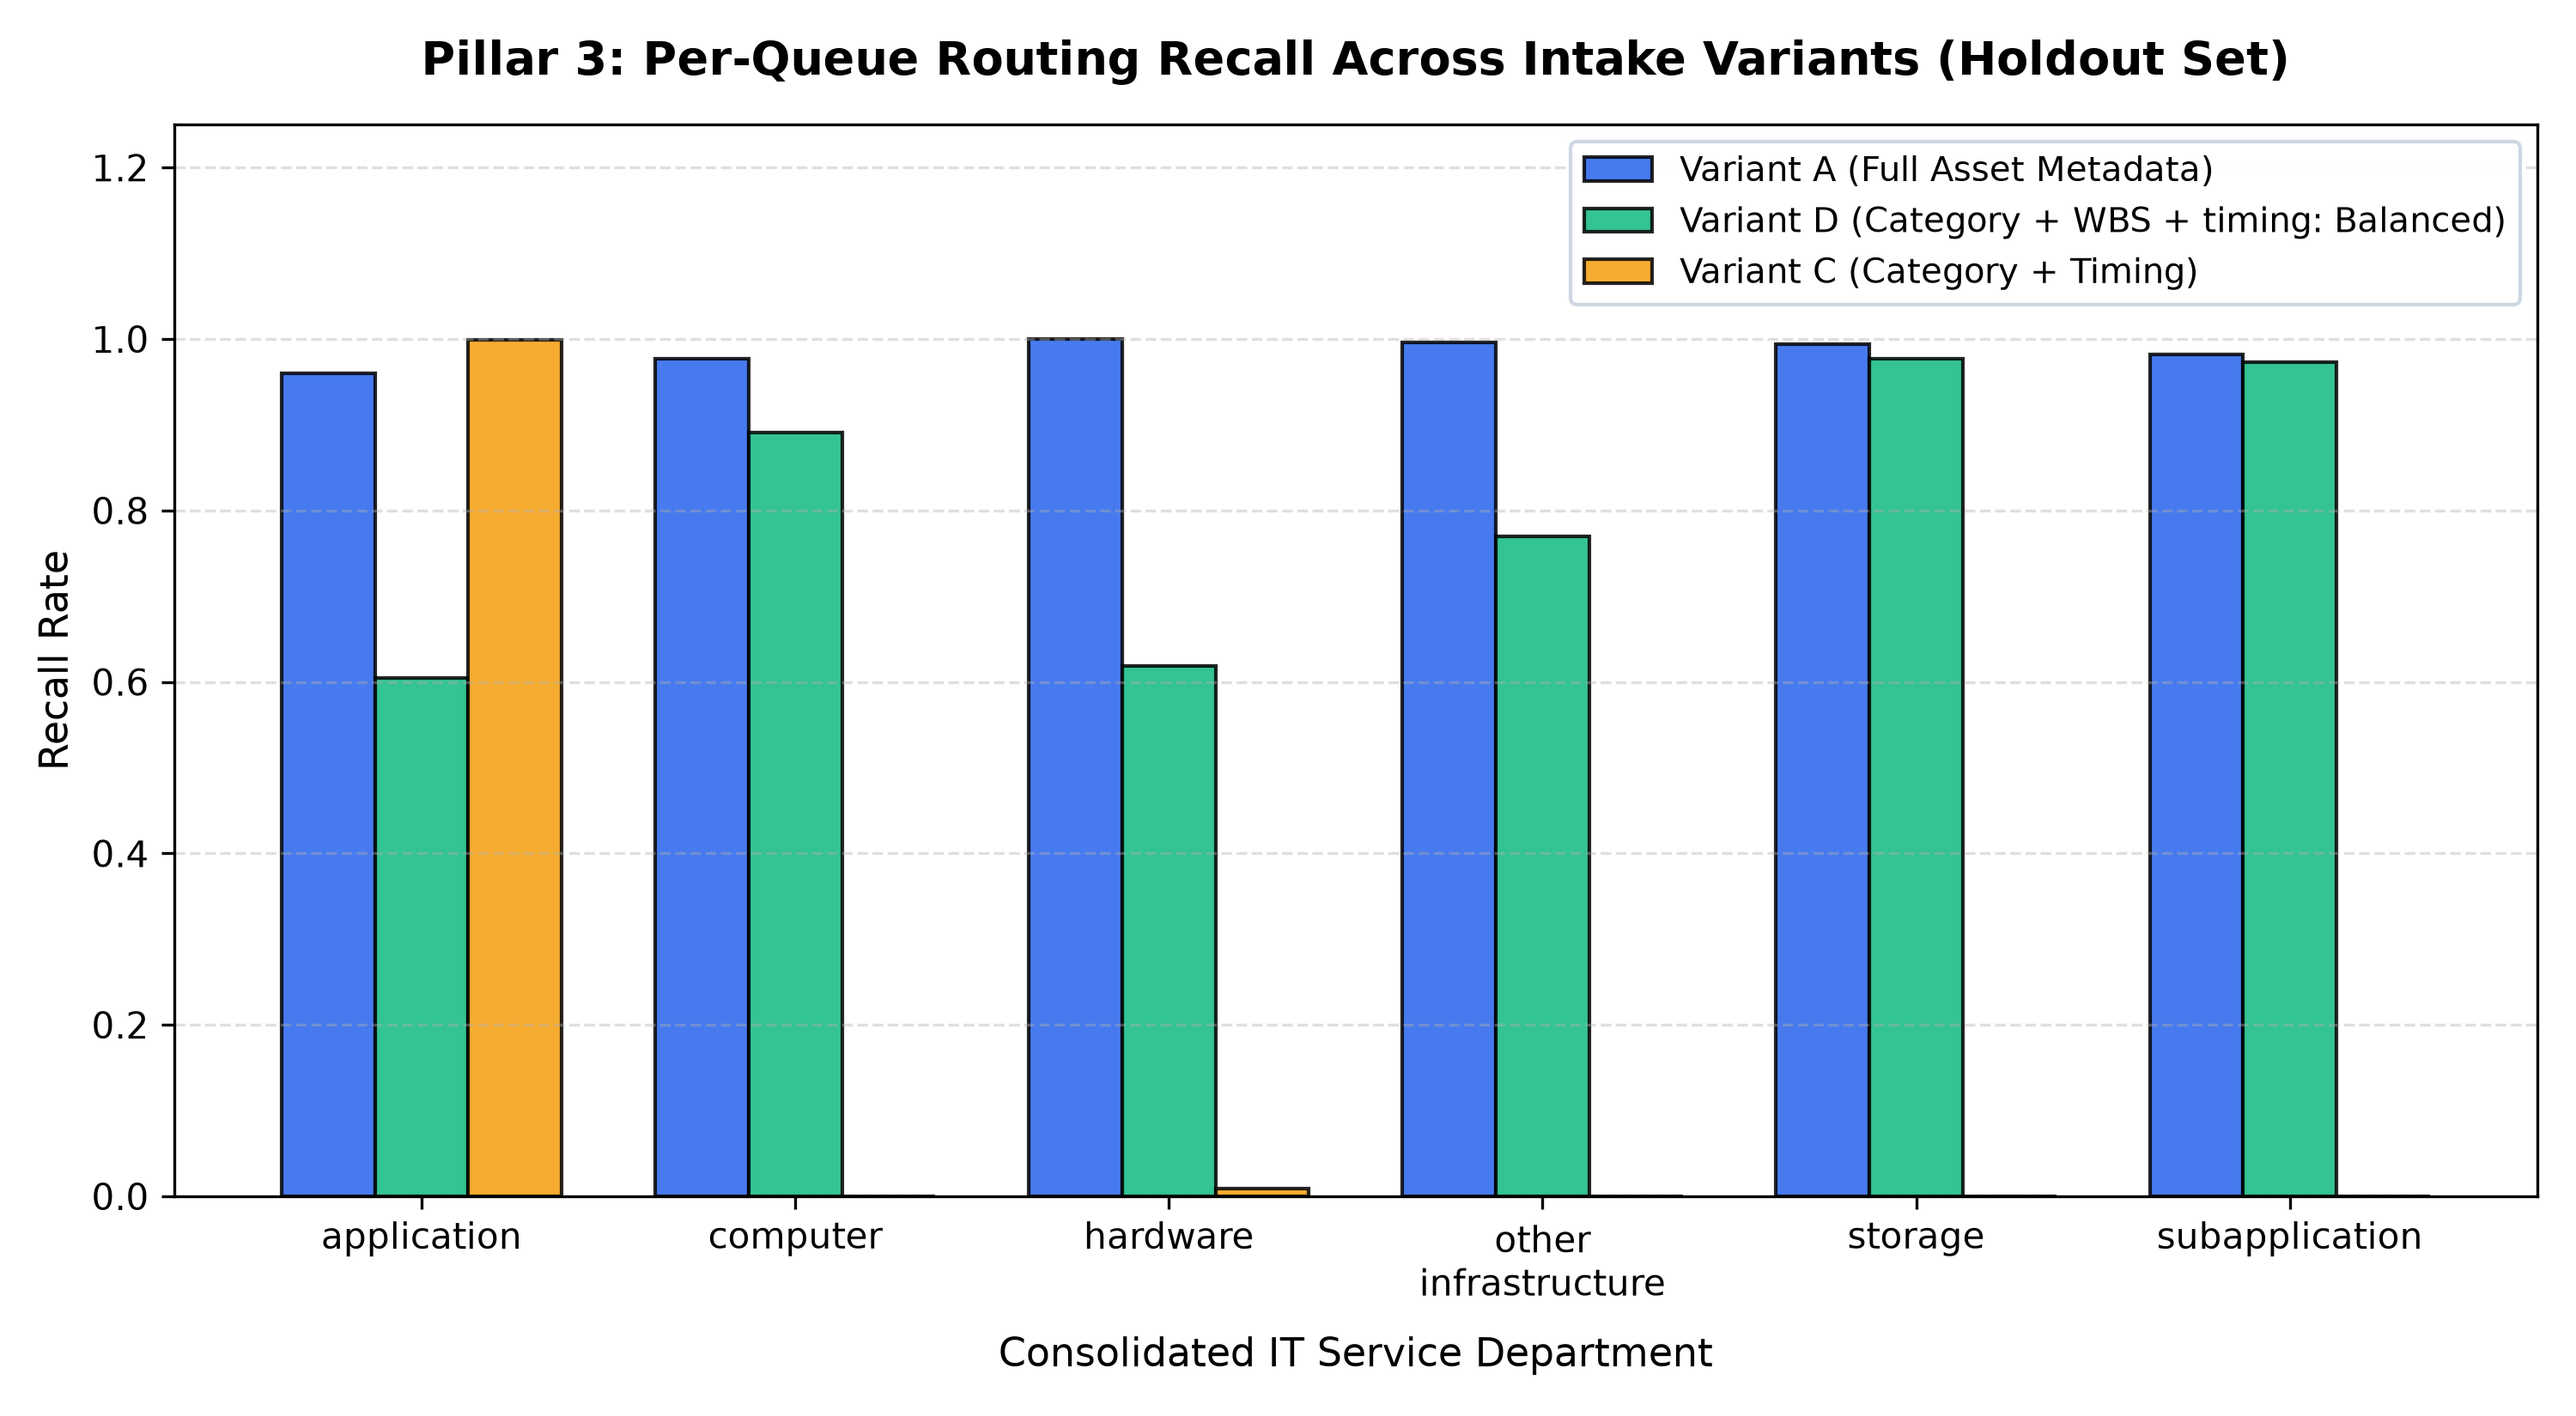
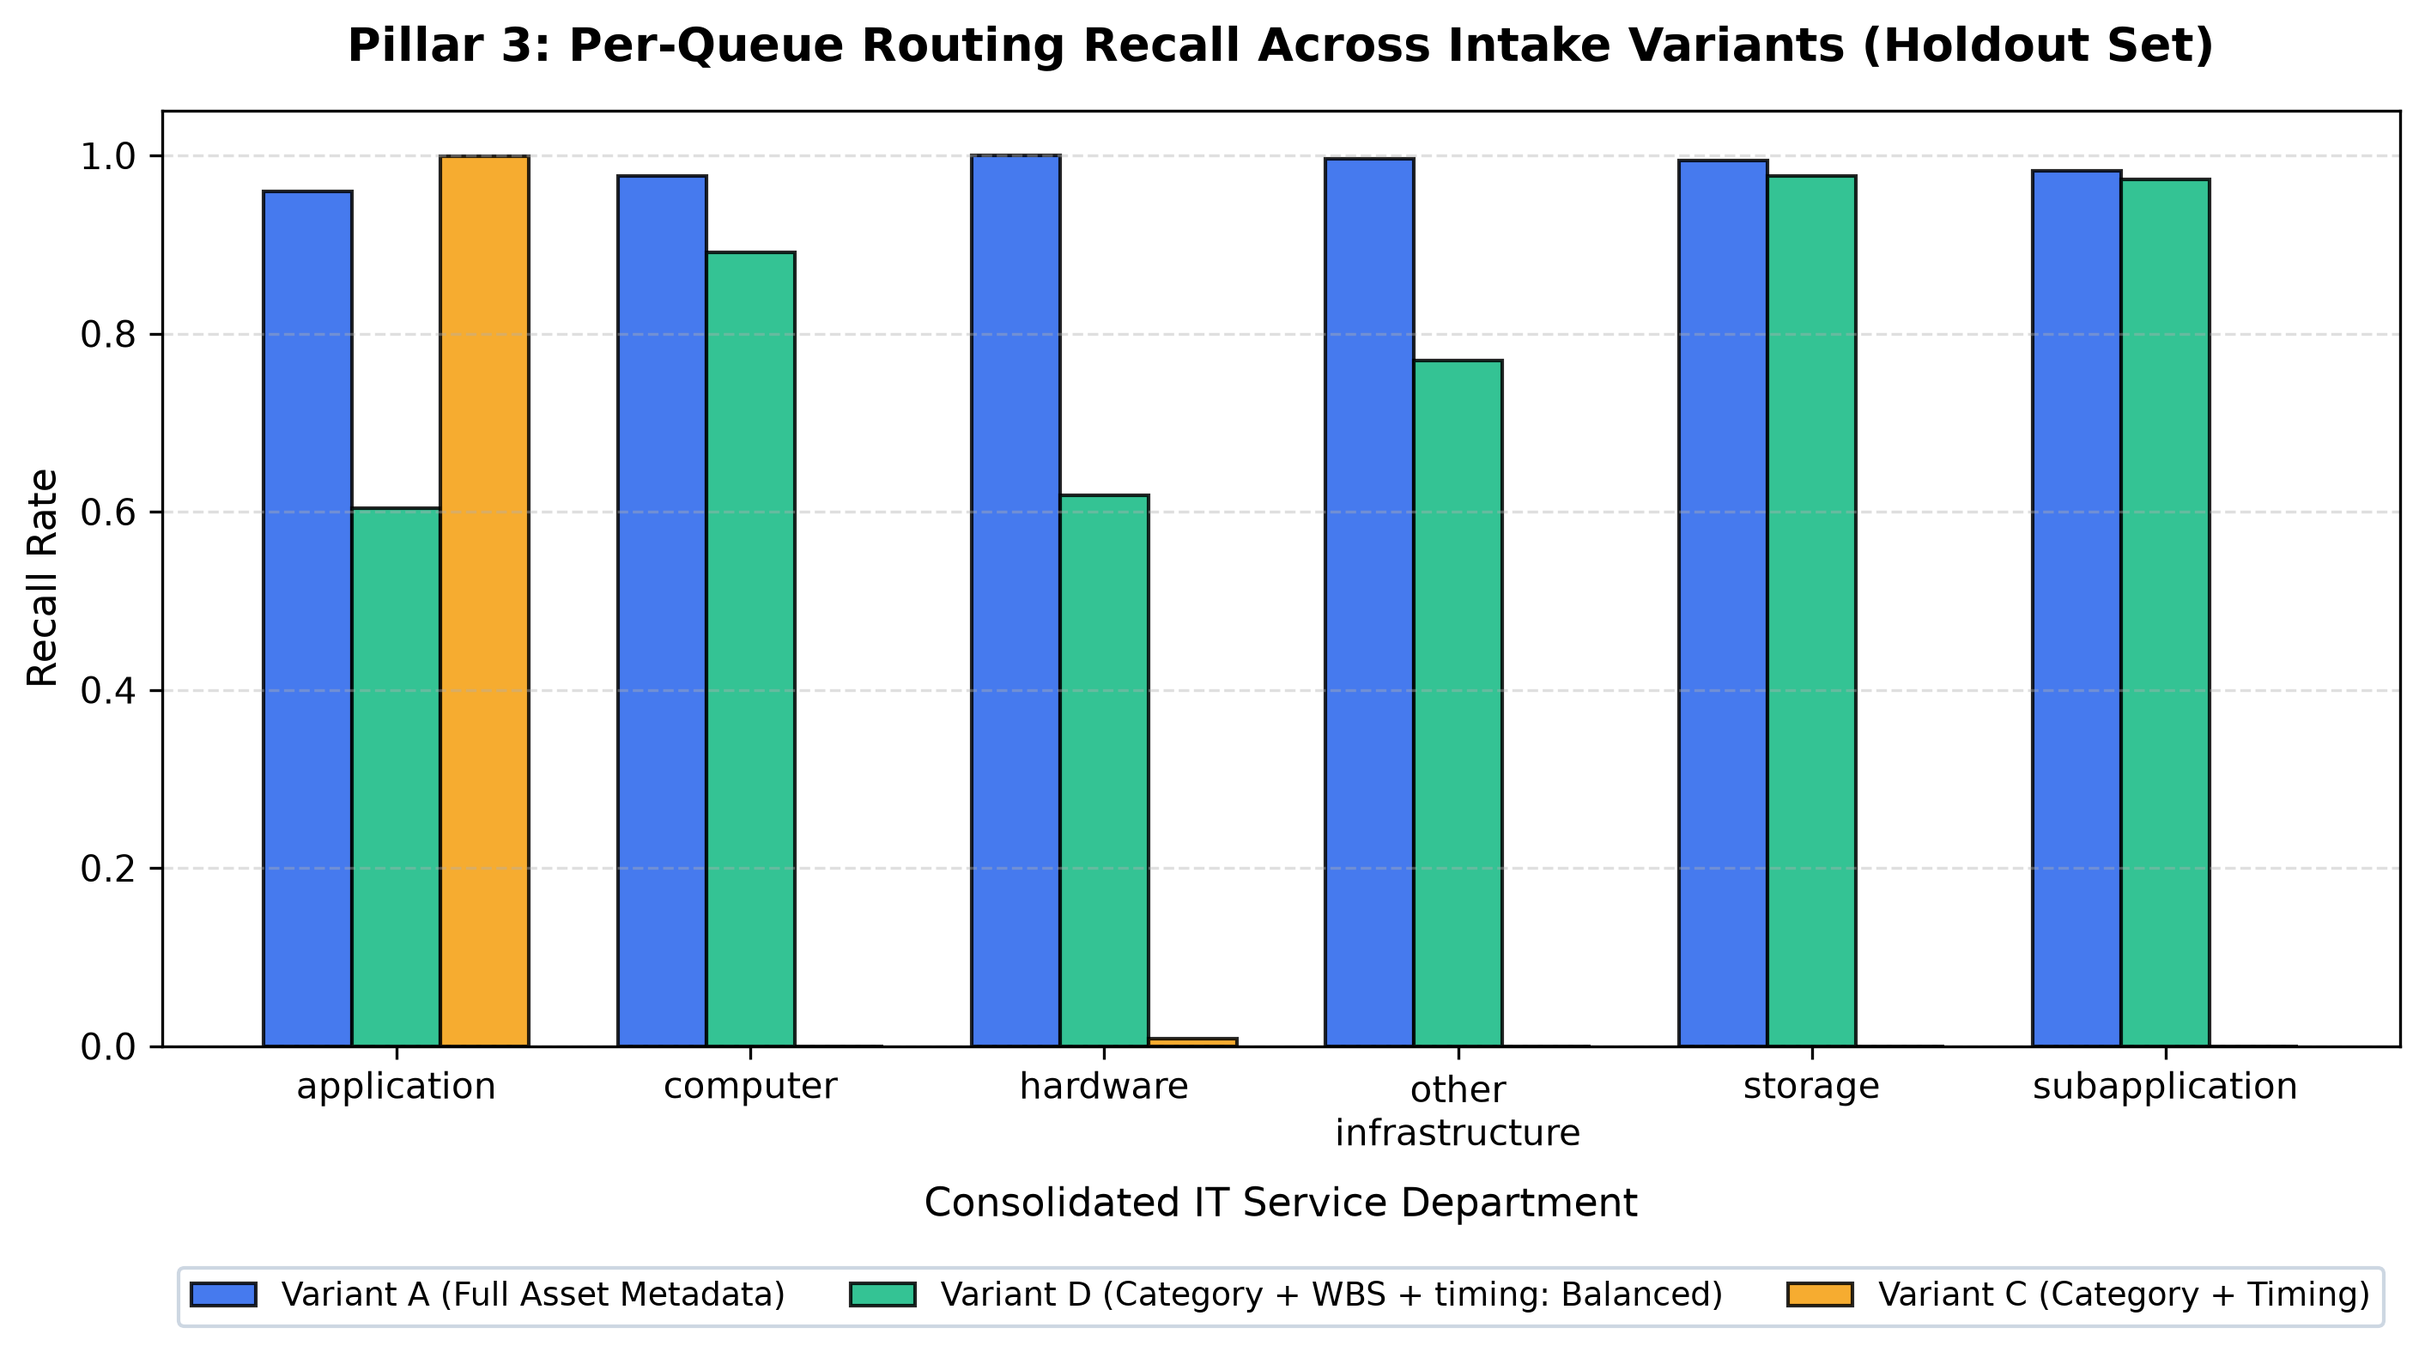
fix(viz): set ylim to 1.05 and anchor legend below axes in Fig 10

diff --git a/src/model_pillar3_routing.py b/src/model_pillar3_routing.py
@@ -395,11 +395,11 @@ def build_routing(df=None, base_vol_2014=72714):
     ax.set_xticks(x_pos)
     formatted_labels = [c.replace('_', '\n') for c in classes_d]
     ax.set_xticklabels(formatted_labels, rotation=0, ha='center', fontsize=10)
-    ax.set_ylim(0, 1.25)
-    ax.legend(loc='upper right', frameon=True, framealpha=0.95, edgecolor='#cbd5e1', fontsize=9.5)
+    ax.set_ylim(0, 1.05)
+    ax.legend(loc='upper center', bbox_to_anchor=(0.5, -0.22), ncol=3, frameon=True, framealpha=0.95, edgecolor='#cbd5e1', fontsize=9.0)
     ax.grid(axis='y', linestyle='--', alpha=0.4)
     plt.tight_layout()
-    fig.savefig(FIGURES_DIR / "10_pillar3_routing_recall.png", dpi=300)
+    fig.savefig(FIGURES_DIR / "10_pillar3_routing_recall.png", dpi=300, bbox_inches='tight')
     plt.close(fig)
 
     # -------------------------------------------------------------
